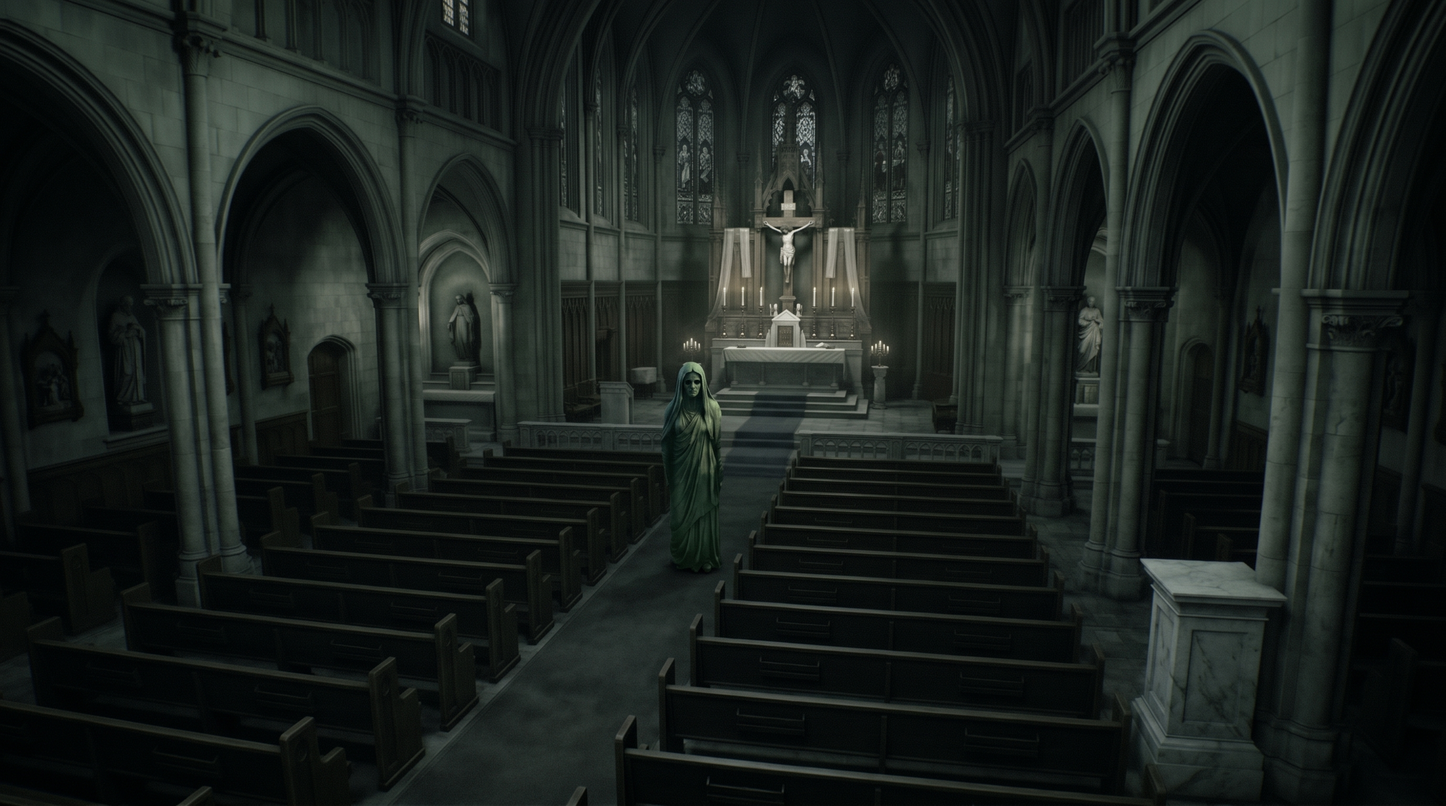
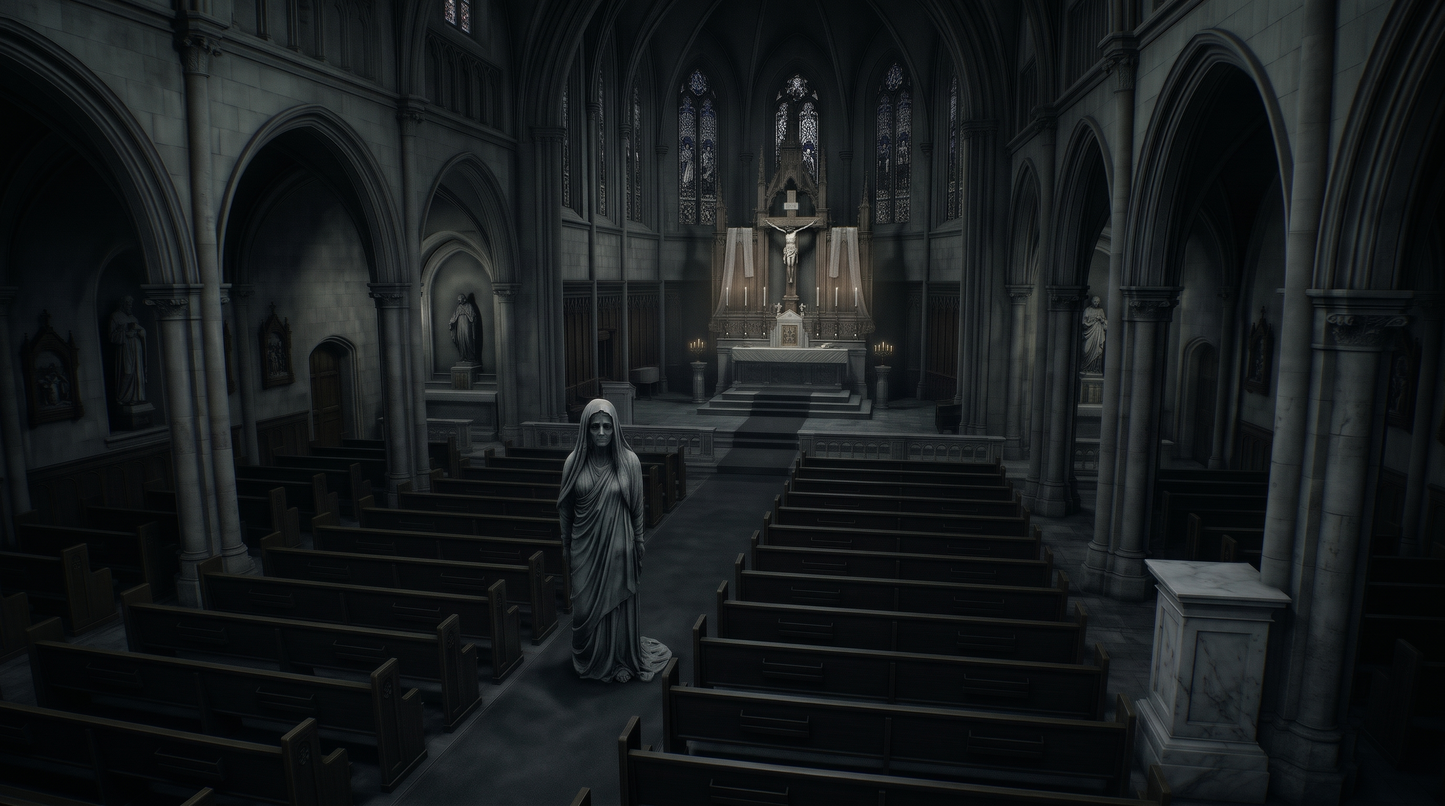
Add CAM 01 dual scene (Weeping Angel normal + Veiled Mourner visiting) and update mary altar image

diff --git a/js/game.js b/js/game.js
@@ -476,6 +476,7 @@ class GameEngine {
       'assets/cctv/church_cam_01_mary_altar.png',
       'assets/cctv/church_cam_01_saint_nave.png',
       'assets/cctv/church_cam_01_angel_normal_saint.png',
+      'assets/cctv/church_cam_01_angel_normal_mourner.png',
       'assets/cctv/church_cam_02_columbarium.png',
       'assets/cctv/church_cam_02_columbarium_anomaly.png',
       'assets/cctv/church_cam_02_empty.png',
@@ -3347,7 +3348,11 @@ class GameEngine {
       if (saintLoc === 'CAM_01') {
         return 'assets/cctv/church_cam_01_saint_nave.png';
       }
-      // Case 3: Mourner roaming in Sanctuary Altar
+      // Case 3: Angel in normal place/pose on pedestal, BUT Mourner came into the aisle!
+      if (isAngelDormant && mournerLoc === 'CAM_01') {
+        return 'assets/cctv/church_cam_01_angel_normal_mourner.png';
+      }
+      // Case 4: Mourner roaming in Sanctuary Altar (pedestal empty / angel moved)
       if (mournerLoc === 'CAM_01') {
         return 'assets/cctv/church_cam_01_mary_altar.png';
       }
@@ -4430,6 +4435,24 @@ class GameEngine {
               if (this.isCCTVOpen) this.updateCCTVFeed();
               window.Sound.playStoneGrind(0.6);
             }
+          } else if (ai.location === 'CAM_01') {
+            // From CAM 01 Sanctuary Nave, advances to WINDOW or roams back to CAM 02 / CAM 03
+            if (!this.isWindowSpotOn &&
+                this.aiConfig.weepingAngel.location !== 'WINDOW' &&
+                this.aiConfig.haloedSaint.location !== 'WINDOW') {
+              ai.location = 'WINDOW';
+              this.updateWindowHallwayView();
+              if (this.isCCTVOpen) this.updateCCTVFeed();
+              window.Sound.playStoneGrind(0.6);
+            } else {
+              const roamCam = (Math.random() < 0.50) ? 'CAM_02' : 'CAM_03';
+              ai.location = roamCam;
+              if (roamCam === 'CAM_02') {
+                this.setMournerStage(0);
+              }
+              if (this.isCCTVOpen) this.updateCCTVFeed();
+              window.Sound.playStoneGrind(0.6);
+            }
           } else {
             this.setMournerStage(1);
             window.Sound.playStoneGrind(0.6);
@@ -4457,8 +4480,16 @@ class GameEngine {
             if (this.isCCTVOpen) this.updateCCTVFeed();
           } else {
             ai.awakened = false;
-            // 35% chance to roam into CAM 03 Reconciliation Chapel (where Saint is), producing the dual scene
-            if (Math.random() < 0.35 && this.aiConfig.haloedSaint.location === 'CAM_03') {
+            // 30% chance to roam into CAM 01 Sanctuary Altar & Nave (where Angel is), producing the dual scene
+            if (Math.random() < 0.30 && this.aiConfig.weepingAngel.location === 'CAM_01') {
+              ai.stage = -1;
+              ai.location = 'CAM_01';
+              this._lastMournerStage = -1;
+              this.handleEntityMovement('CAM_02', 'CAM_01', 'veiledMourner');
+              this.triggerCameraMotionError(1, 1.8);
+              window.Sound.playStoneGrind(0.7);
+              if (this.isCCTVOpen) this.updateCCTVFeed();
+            } else if (Math.random() < 0.35 && this.aiConfig.haloedSaint.location === 'CAM_03') {
               ai.stage = -1;
               ai.location = 'CAM_03';
               this._lastMournerStage = -1;
